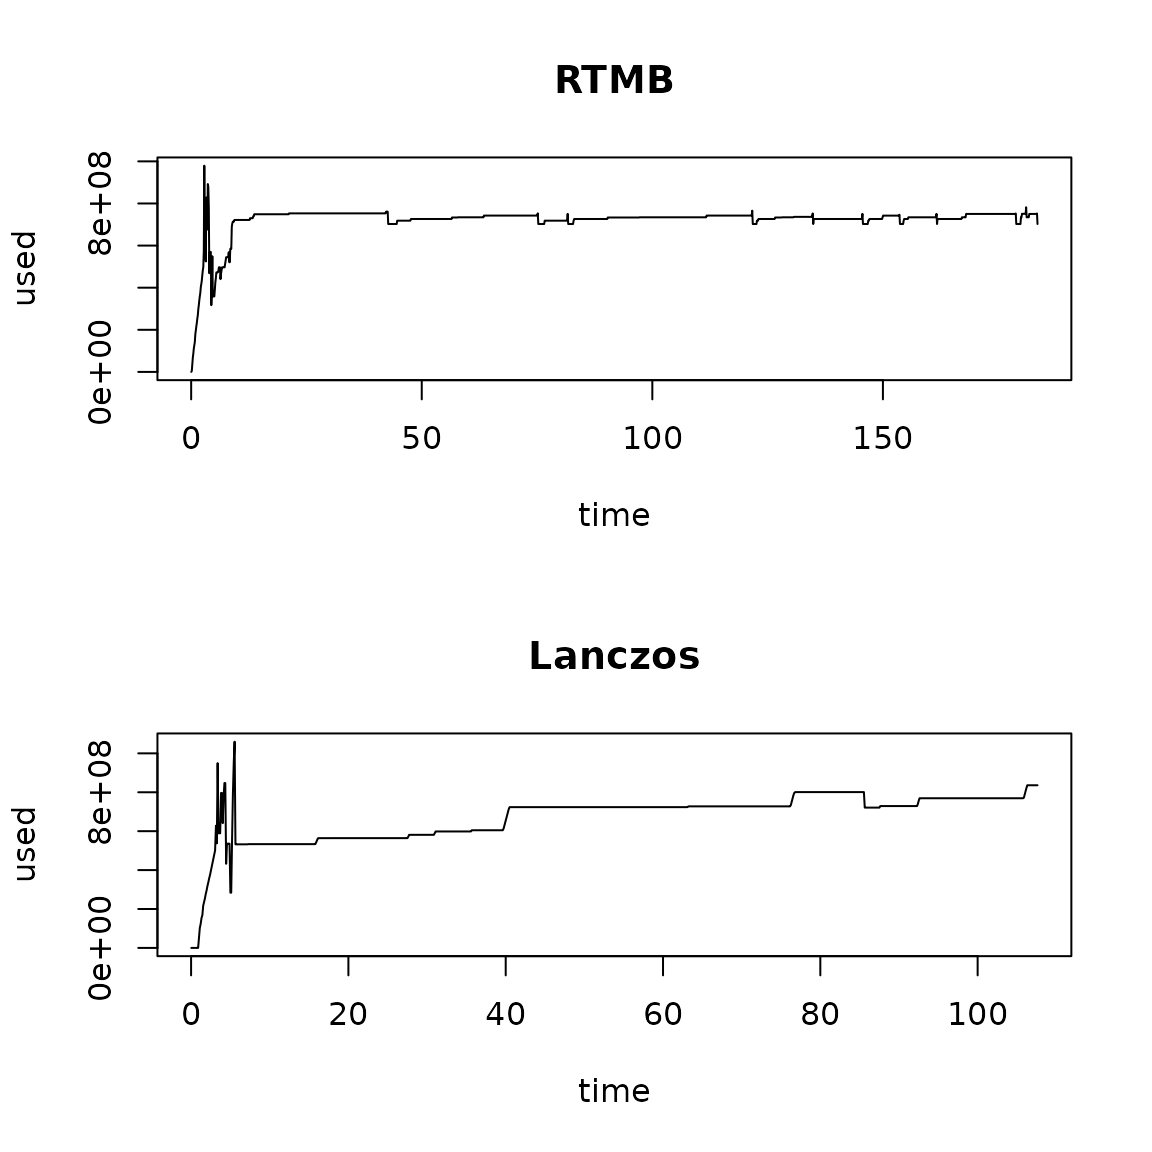
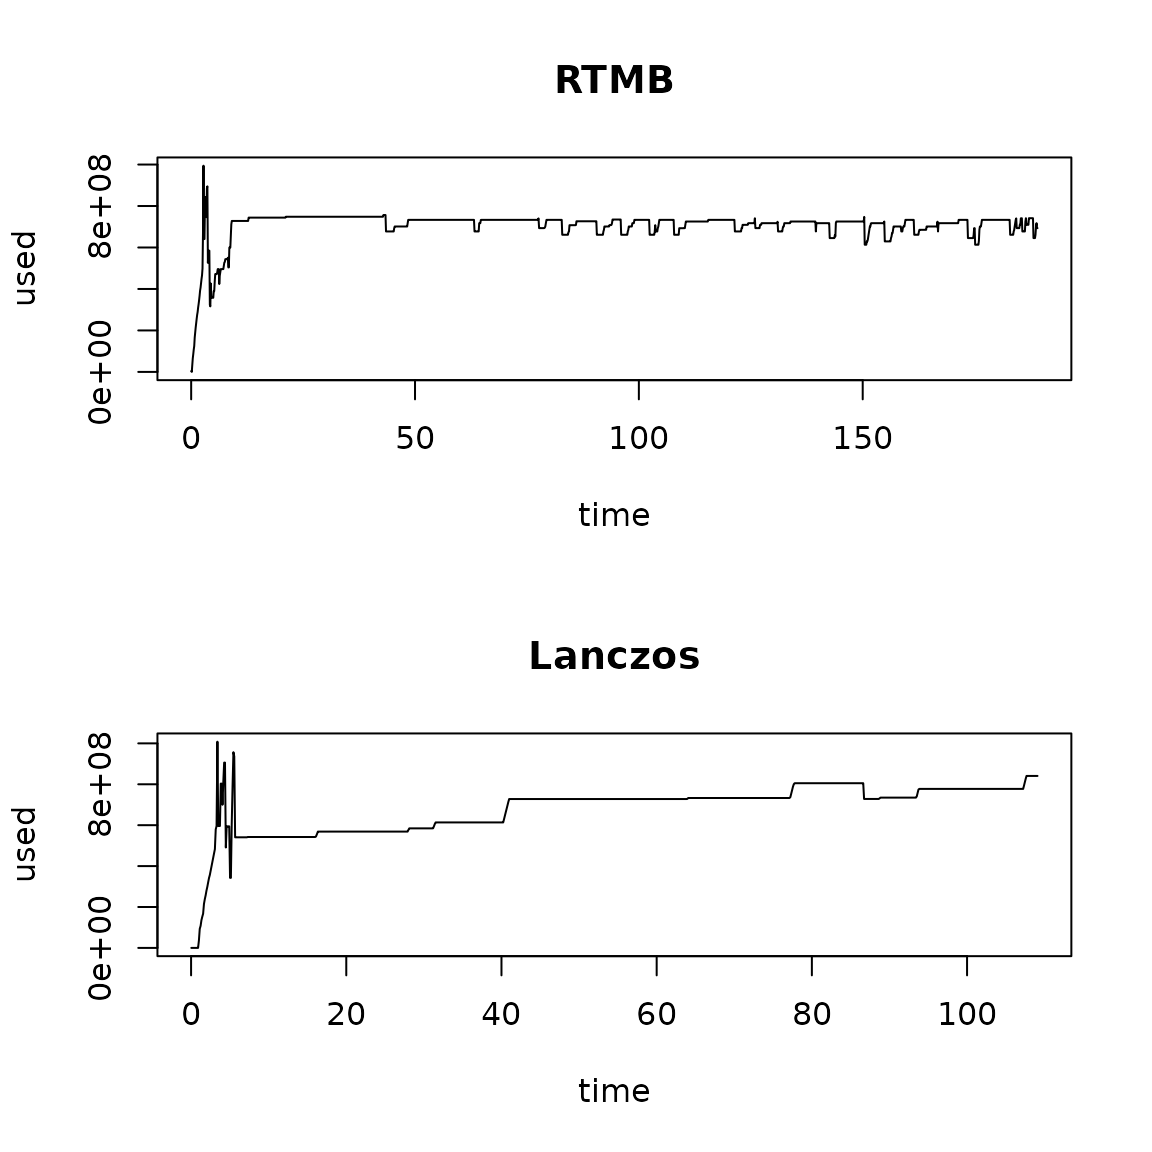
Deploying to gh-pages from @ James-Thorson/lanczosRTMB@e3489b2779f9225e18a0ca67cc0e402e0fa34c3a 🚀

diff --git a/reference/make_Hq.html b/reference/make_Hq.html
@@ -91,7 +91,7 @@ function can be used with <code>update_H = FALSE</code> to use the pre-calculate
 or <code>update_H = TRUE</code> to recalculate the sparse Hessian, store the update in the local
 environment and then calculate the HVP. <code>update_H = FALSE</code> is then useful when repeadly
 using the same Hessian in a HVP.</p>
-<p>When <code>method = "FD-on-verse"</code>, <code>make_Hq</code> instead calculates a two-sided finite-difference
+<p>When <code>method = "FD-on-reverse"</code>, <code>make_Hq</code> instead calculates a two-sided finite-difference
 approximation to a forward-on-reverse autodiff calculation, using <code>delta = 1e-6</code>
 forward-on-reverse (and FD of autodiff gradients) is efficient given that
 <code>grad_u(f) %** q</code> has length of one.</p>
@@ -167,10 +167,10 @@ forward-on-reverse (and FD of autodiff gradients) is efficient given that
 <span class="r-in"><span></span></span>
 <span class="r-in"><span><span class="fu"><a href="https://rdrr.io/r/base/system.time.html" class="external-link">system.time</a></span><span class="op">(</span><span class="fu">Hq</span><span class="op">(</span><span class="va">q</span>, <span class="va">x_new</span><span class="op">)</span><span class="op">)</span></span></span>
 <span class="r-out co"><span class="r-pr">#&gt;</span>    user  system elapsed </span>
-<span class="r-out co"><span class="r-pr">#&gt;</span>   0.001   0.000   0.001 </span>
+<span class="r-out co"><span class="r-pr">#&gt;</span>       0       0       0 </span>
 <span class="r-in"><span><span class="fu"><a href="https://rdrr.io/r/base/system.time.html" class="external-link">system.time</a></span><span class="op">(</span><span class="fu">Hq2</span><span class="op">(</span><span class="va">q</span>, <span class="va">x_new</span><span class="op">)</span><span class="op">)</span></span></span>
 <span class="r-out co"><span class="r-pr">#&gt;</span>    user  system elapsed </span>
-<span class="r-out co"><span class="r-pr">#&gt;</span>   0.007   0.000   0.007 </span>
+<span class="r-out co"><span class="r-pr">#&gt;</span>   0.006   0.000   0.006 </span>
 <span class="r-in"><span><span class="fu"><a href="https://rdrr.io/r/base/system.time.html" class="external-link">system.time</a></span><span class="op">(</span><span class="fu">Hq2</span><span class="op">(</span><span class="va">q</span>, <span class="va">x_new</span>, update_H <span class="op">=</span> <span class="cn">FALSE</span><span class="op">)</span><span class="op">)</span></span></span>
 <span class="r-out co"><span class="r-pr">#&gt;</span>    user  system elapsed </span>
 <span class="r-out co"><span class="r-pr">#&gt;</span>       0       0       0 </span>

diff --git a/reference/lanczos_MakeADFun.html b/reference/lanczos_MakeADFun.html
@@ -48,9 +48,10 @@ a user-supplied joint likelihood and designated random effects</p>
     <div class="sourceCode"><pre class="sourceCode r"><code><span><span class="fu">lanczos_MakeADFun</span><span class="op">(</span></span>
 <span>  <span class="va">func</span>,</span>
 <span>  <span class="va">parameters</span>,</span>
+<span>  map <span class="op">=</span> <span class="cn">NULL</span>,</span>
 <span>  <span class="va">random</span>,</span>
-<span>  <span class="va">k</span>,</span>
 <span>  profile <span class="op">=</span> <span class="cn">NULL</span>,</span>
+<span>  <span class="va">k</span>,</span>
 <span>  m <span class="op">=</span> <span class="fl">3</span>,</span>
 <span>  method <span class="op">=</span> <span class="st">"newton_CG"</span>,</span>
 <span>  seed <span class="op">=</span> <span class="fl">123</span>,</span>
@@ -72,16 +73,21 @@ a user-supplied joint likelihood and designated random effects</p>
 <dd><p>Parameter list (or parameter vector) used by <code>func</code>.</p></dd>
 
 
+<dt id="arg-map">map<a class="anchor" aria-label="anchor" href="#arg-map"></a></dt>
+<dd><p>List defining how to optionally collect and fix parameters, defined the same
+as in TMB</p></dd>
+
+
 <dt id="arg-random">random<a class="anchor" aria-label="anchor" href="#arg-random"></a></dt>
 <dd><p>Character vector defining the random effect parameters. See also <code>regexp</code>.</p></dd>
 
 
-<dt id="arg-k">k<a class="anchor" aria-label="anchor" href="#arg-k"></a></dt>
-<dd><p>dimension for Kyrlov subspace</p></dd>
-
-
 <dt id="arg-profile">profile<a class="anchor" aria-label="anchor" href="#arg-profile"></a></dt>
 <dd><p>Parameters to profile out of the likelihood (this subset will be appended to <code>random</code> with Laplace approximation disabled).</p></dd>
+
+
+<dt id="arg-k">k<a class="anchor" aria-label="anchor" href="#arg-k"></a></dt>
+<dd><p>dimension for Kyrlov subspace</p></dd>
 
 
 <dt id="arg-m">m<a class="anchor" aria-label="anchor" href="#arg-m"></a></dt>

diff --git a/reference/newton_CG.html b/reference/newton_CG.html
@@ -244,7 +244,7 @@ This smartsearch behavior controlled by <code>u0</code>, <code>ustep</code>,
 <span class="r-plt img"><img src="newton_CG-1.png" alt="" width="700" height="433"></span>
 <span class="r-in"><span><span class="fu"><a href="https://rdrr.io/r/base/c.html" class="external-link">c</a></span><span class="op">(</span><span class="va">opt1</span><span class="op">$</span><span class="va">runtime</span>, <span class="va">opt2</span><span class="op">$</span><span class="va">runtime</span><span class="op">)</span></span></span>
 <span class="r-out co"><span class="r-pr">#&gt;</span> Time differences in secs</span>
-<span class="r-out co"><span class="r-pr">#&gt;</span> [1]  6.593921 19.501371</span>
+<span class="r-out co"><span class="r-pr">#&gt;</span> [1]  6.651905 19.725163</span>
 <span class="r-in"><span><span class="co"># newton_CG finds a slightly better fit</span></span></span>
 <span class="r-in"><span><span class="fu"><a href="https://rdrr.io/r/base/c.html" class="external-link">c</a></span><span class="op">(</span><span class="va">opt1</span><span class="op">$</span><span class="va">value</span>, <span class="va">opt2</span><span class="op">$</span><span class="va">value</span><span class="op">)</span></span></span>
 <span class="r-out co"><span class="r-pr">#&gt;</span> [1] -1220.361 -1220.467</span>

diff --git a/articles/lanczos.html b/articles/lanczos.html
@@ -538,11 +538,11 @@ likelihood, pending improvements:</p>
 <tbody>
 <tr class="odd">
 <td align="left">RTMB</td>
-<td align="left">3.07 mins</td>
+<td align="left">3.16 mins</td>
 </tr>
 <tr class="even">
 <td align="left">Lanczos</td>
-<td align="left">1.80 mins</td>
+<td align="left">1.82 mins</td>
 </tr>
 </tbody>
 </table>
@@ -572,15 +572,15 @@ likelihood, pending improvements:</p>
 <tbody>
 <tr class="odd">
 <td align="left">RTMB</td>
-<td align="right">0.98</td>
+<td align="right">0.99</td>
 </tr>
 <tr class="even">
 <td align="left">Lanczos</td>
-<td align="right">1.06</td>
+<td align="right">1.01</td>
 </tr>
 </tbody>
 </table>
-<p>Runtime for this vignette: 5.27 mins</p>
+<p>Runtime for this vignette: 5.39 mins</p>
 <div class="section level3">
 <h3 id="works-cited">Works cited<a class="anchor" aria-label="anchor" href="#works-cited"></a>
 </h3>

diff --git a/reference/make_Hq.md b/reference/make_Hq.md
@@ -60,10 +60,11 @@ sparse Hessian, store the update in the local environment and then
 calculate the HVP. `update_H = FALSE` is then useful when repeadly using
 the same Hessian in a HVP.
 
-When `method = "FD-on-verse"`, `make_Hq` instead calculates a two-sided
-finite-difference approximation to a forward-on-reverse autodiff
-calculation, using `delta = 1e-6` forward-on-reverse (and FD of autodiff
-gradients) is efficient given that `grad_u(f) %** q` has length of one.
+When `method = "FD-on-reverse"`, `make_Hq` instead calculates a
+two-sided finite-difference approximation to a forward-on-reverse
+autodiff calculation, using `delta = 1e-6` forward-on-reverse (and FD of
+autodiff gradients) is efficient given that `grad_u(f) %** q` has length
+of one.
 
 `qprime` is defined internally where `qprime[which_random] = q` and
 `qprime[!which_random] = 0`, where `length(qprime)` is equal to
@@ -138,10 +139,10 @@ x_new[which_random] = rnorm(length(which_random))
 
 system.time(Hq(q, x_new))
 #>    user  system elapsed 
-#>   0.001   0.000   0.001 
+#>       0       0       0 
 system.time(Hq2(q, x_new))
 #>    user  system elapsed 
-#>   0.007   0.000   0.007 
+#>   0.006   0.000   0.006 
 system.time(Hq2(q, x_new, update_H = FALSE))
 #>    user  system elapsed 
 #>       0       0       0 

diff --git a/reference/lanczos_MakeADFun.md b/reference/lanczos_MakeADFun.md
@@ -9,9 +9,10 @@ user-supplied joint likelihood and designated random effects
 lanczos_MakeADFun(
   func,
   parameters,
+  map = NULL,
   random,
-  k,
   profile = NULL,
+  k,
   m = 3,
   method = "newton_CG",
   seed = 123,
@@ -31,19 +32,24 @@ lanczos_MakeADFun(
 
   Parameter list (or parameter vector) used by `func`.
 
+- map:
+
+  List defining how to optionally collect and fix parameters, defined
+  the same as in TMB
+
 - random:
 
   Character vector defining the random effect parameters. See also
   `regexp`.
 
-- k:
-
-  dimension for Kyrlov subspace
-
 - profile:
 
   Parameters to profile out of the likelihood (this subset will be
   appended to `random` with Laplace approximation disabled).
+
+- k:
+
+  dimension for Kyrlov subspace
 
 - m:
 

diff --git a/articles/lanczos.md b/articles/lanczos.md
@@ -534,8 +534,8 @@ knitr::kable( runtime, digits=2, caption="Run-times" )
 
 |         | x         |
 |:--------|:----------|
-| RTMB    | 3.07 mins |
-| Lanczos | 1.80 mins |
+| RTMB    | 3.16 mins |
+| Lanczos | 1.82 mins |
 
 Run-times {.table}
 
@@ -567,11 +567,11 @@ knitr::kable( max_memory, digits=2, caption="Maximum memory use (GB)" )
 
 |         |    x |
 |:--------|-----:|
-| RTMB    | 0.98 |
-| Lanczos | 1.06 |
+| RTMB    | 0.99 |
+| Lanczos | 1.01 |
 
 Maximum memory use (GB) {.table}
 
-Runtime for this vignette: 5.27 mins
+Runtime for this vignette: 5.39 mins
 
 ### Works cited

diff --git a/reference/newton_CG.md b/reference/newton_CG.md
@@ -210,7 +210,7 @@ matplot( cbind(opt1$par, opt2$par), type = "l", col = c("black","blue","red"), l
 
 c(opt1$runtime, opt2$runtime)
 #> Time differences in secs
-#> [1]  6.593921 19.501371
+#> [1]  6.651905 19.725163
 # newton_CG finds a slightly better fit
 c(opt1$value, opt2$value)
 #> [1] -1220.361 -1220.467
